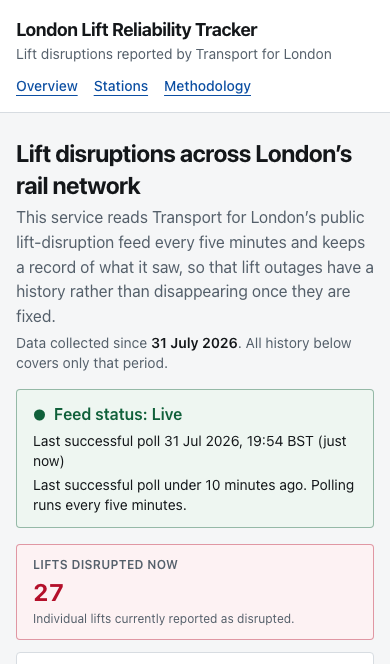
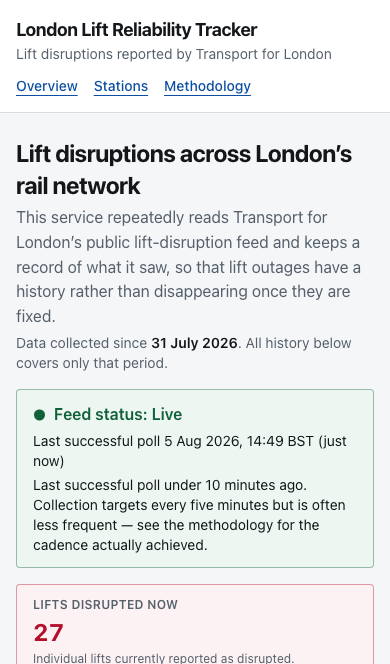
Bring the README and screenshots up to date with the deployed site
Every screenshot predated a week of changes: they still showed "Disrupted for
35m" on outages that began months earlier, four metric cards, and a station
table headed "Stations" with a Last-disruption column that printed the same
timestamp on every row. Recaptured from production.

The prose had drifted just as far. It now describes what the site actually
does: three polling triggers rather than one, and why; region pinning and the
26.8s-to-1.8s reason for it; durations taken from the start date in TfL's own
message, with a floor where none is given; the station lookup that answers for
stations no disruption has ever touched; the openly published 569-lift
inventory and the denominator it provides; and the deployment step for an
external cron, without which the schedule alone runs roughly hourly.

diff --git a/README.md b/README.md
@@ -4,11 +4,13 @@ Transport for London publishes which station lifts are broken **right now**, but
 lift is fixed, its entry disappears and the event is gone. So there is no public way to ask "how
 often does this lift fail, and for how long?"
 
-This service polls that feed repeatedly and keeps what it saw. From launch onward, lift
+This service polls that feed every few minutes and keeps what it saw. From launch onward, lift
 outages accumulate a record — visible on a map, in a list, and per station.
 
 **It reports lift outages and observed downtime. It does not claim a station is inaccessible**, and
 it never presents inferred data as fact.
+
+Live: <https://london-lift-tracker.vercel.app>
 
 ![Homepage: feed status, headline metrics, map and current outage list](docs/screenshots/homepage.png)
 
@@ -25,7 +27,8 @@ collection started, and restoration times are inferred rather than reported.
 | Observed outages since a stated date | Official repair durations |
 | Observed downtime by station | "This station is inaccessible" |
 | Restoration inferred from the feed | Reliability over the past year |
-| The cadence collection actually achieved, published on the site | "Collected every five minutes" — the schedule is throttled, so real gaps are longer |
+| The polling cadence actually achieved, published on the site | A fixed "every five minutes", which the schedule does not always deliver |
+| "TfL reports no disruption here" | "Every lift at this station works" |
 
 Station availability percentages are deliberately absent: they would need a verified inventory of
 every lift and an honest observation denominator.
@@ -47,9 +50,10 @@ Verified against `GET https://api.tfl.gov.uk/Disruptions/Lifts/v2` before any ad
 
 Three consequences shape everything else:
 
-1. **No timestamps.** An outage's start is when *we first saw it* — an upper bound on the real
-   failure time. Outages already running at collection start are labelled as such, and their
-   durations are lower bounds.
+1. **No timestamps.** The structured feed carries no start time, so an outage's start is when *we
+   first saw it*. Where TfL states a date in its own prose ("From Monday 10 March"), that is parsed
+   and used instead, because it is better evidence than our arrival time. Where it does not, and
+   the outage predates collection, the duration is shown as a floor: `≥ 4d 16h`.
 2. **One record can list several lifts.** Bank has listed four at once. Each lift is a separate
    physical asset with its own history, so a record is fanned out into one outage per lift.
 3. **No names or coordinates.** Those come from TfL's StopPoint API, looked up once per station and
@@ -58,25 +62,42 @@ Three consequences shape everything else:
 The feed covers Underground, Overground, Elizabeth line, DLR and rail interchanges — not just the
 Tube.
 
+### Why the live list looks so long-running
+
+A snapshot of what is broken *now* is inherently weighted towards slow repairs: a lift fixed within
+the hour leaves the feed almost immediately, while one waiting on parts sits there for weeks. TfL's
+own current messages quote end dates months away. This surprises people into thinking the data is
+wrong, so the site explains it rather than leaving it to be inferred.
+
 ---
 
 ## Architecture
 
 ```
-GitHub Actions (cron)  +  any page view with stale data
+external cron (every 5 min)  +  GitHub Actions (cron)  +  any page view with stale data
   └─> POST /api/internal/poll-lifts        Authorization: Bearer CRON_SECRET
         └─> lib/tfl/poll.ts  runPoll()
               1. fetch feed + validate           network, 15s timeout, ≤2 retries
-              2. normalise, fan out per lift     pure
-              3. resolve unknown stations        network, StopPoint, DB-cached
-              4. ONE transaction                 advisory lock → upserts → state machine
+              2. normalise, fan out per lift      pure
+              3. resolve unknown stations         network, StopPoint, DB-cached
+              4. ONE transaction                  advisory lock → upserts → state machine
 ```
+
+**Three triggers, because one is not reliable.** GitHub's scheduler throttles frequent workflows
+hard — measured in production, a five-minute cron was delivering a median gap of 62 minutes and a
+worst gap of 216. An external cron service is therefore the workhorse, GitHub Actions is a free
+backstop, and a page view tops the data up when the newest successful poll is over four minutes
+old. Overlapping triggers are safe: the advisory lock means the loser writes nothing and gets a 409.
 
 Network calls happen **before** the transaction opens. The spec this was built from puts the fetch
 inside it; holding a Postgres transaction across a 15-second network timeout starves the connection
 pool and will eventually deadlock a hosted pooler. Every guarantee is preserved: writes are atomic,
 only one poll runs at a time, a concurrent caller gets HTTP 409, and a failed fetch is recorded as a
 `FAILED` PollRun that closes nothing.
+
+Serverless functions are pinned to the same region as the database (`dub1`). They defaulted to
+US-East against an EU-West database, which put ~150 queries per poll across the Atlantic and took a
+poll from 1.8s to 26.8s — past the collector's timeout.
 
 Reads are plain Prisma queries in server components; `/api/*` exposes the same data as JSON.
 
@@ -101,9 +122,9 @@ Reads are plain Prisma queries in server components; `/api/*` exposes the same d
 
 ```
 app/            pages and API routes
-components/     UI (map, list, table, metric cards, feed health)
-lib/tfl/        client, Zod schema, normaliser, station resolver, poll state machine
-lib/metrics/    durations, medians, interval merging, station aggregates
+components/     UI (map, list, table, metric cards, feed health, station lookup)
+lib/tfl/        client, Zod schema, normaliser, station resolver, poll state machine, refresh
+lib/metrics/    durations, medians, interval merging, station aggregates, cadence
 lib/utils/      text normalisation, hashing, CSV
 prisma/         schema and migrations
 scripts/        inspect:tfl, poll:once, import:topology
@@ -114,8 +135,18 @@ tests/          unit + integration tests (real PostgreSQL)
 
 | | |
 | --- | --- |
-| **Stations** — ranked by observed downtime, sortable, with honest "insufficient data" where nothing has resolved yet<br>![Stations table](docs/screenshots/stations.png) | **Station detail** — current status, observed metrics and a chronological timeline<br>![Station detail page](docs/screenshots/station-detail.png) |
-| **Methodology** — what is measured, what is inferred, and what is not claimed<br>![Methodology page](docs/screenshots/methodology.png) | **Mobile** — list before map, no horizontal scrolling<br><img src="docs/screenshots/homepage-mobile.png" alt="Homepage on a phone" width="300"> |
+| **Stations** — every station where a disruption has been observed, ranked by downtime, sortable, with `≥` marking figures that are floors<br>![Stations table](docs/screenshots/stations.png) | **Station detail** — current status, observed metrics and a chronological timeline of every outage<br>![Station detail page](docs/screenshots/station-detail.png) |
+| **Methodology** — what is measured, what is inferred, what is not claimed, and the cadence actually achieved<br>![Methodology page](docs/screenshots/methodology.png) | **Mobile** — list before map, no horizontal scrolling<br><img src="docs/screenshots/homepage-mobile.png" alt="Homepage on a phone" width="300"> |
+
+### Searching a station that is fine
+
+Only stations that have *had* a disruption exist in the database, so searching a working station
+would otherwise return "no results" — which reads as "not found" rather than "nothing is wrong".
+`GET /api/lookup?q=…` checks our records first, then TfL's StopPoint search, so any London rail
+station resolves and reports its status as of the last successful poll.
+
+The answer is phrased as "TfL reports no lift disruption here", never "all lifts work": an
+unreported fault is still possible, and plenty of stations have no lifts at all.
 
 ---
 
@@ -138,8 +169,8 @@ npm run dev                         # http://localhost:3000
 ```
 
 A `TFL_APP_KEY` is optional: the feed answers anonymously at 50 requests/minute and polling needs
-about one. Register at <https://api-portal.tfl.gov.uk/> for the 500/minute plan and
-the client will use the key automatically.
+about one. Register at <https://api-portal.tfl.gov.uk/> for the 500/minute plan and the client will
+use the key automatically.
 
 The site shows nothing until at least one poll has run — by design. There are no seeded or mock
 records anywhere in this repository.
@@ -152,22 +183,28 @@ records anywhere in this repository.
 | `npm run build` / `npm start` | Production build and serve |
 | `npm run inspect:tfl` | Print the live payload's real shape; save `fixtures/tfl-lift-disruptions.json`. No DB writes |
 | `npm run poll:once` | Run one collection cycle locally |
-| `npm run import:topology -- --file=/abs/path.zip` | Optional lift-inventory enrichment |
+| `npm run import:topology -- --download` | Fetch and import TfL's lift inventory |
 | `npm run lint` / `npm run typecheck` / `npm test` | Verification |
 
 ### Optional topology import
 
-TfL's static step-free topology extract adds real lift names and the areas each lift connects:
+TfL publishes its step-free topology openly, with no key required, at
+`api.tfl.gov.uk/stationdata/tfl-stationdata-detailed.zip` — **569 lifts across 509 stations**, plus
+platforms, ramps and same-level paths.
 
 ```bash
-npm run import:topology -- --file=/absolute/path/to/topology.zip
+npm run import:topology -- --download                     # enrich stations we already track
+npm run import:topology -- --download --create-stations   # import the whole inventory
+npm run import:topology -- --file=/absolute/path.zip      # use a local archive instead
 ```
 
 It prints every CSV and its headers, imports `Lifts.csv`, upserts rather than duplicates, keeps all
 source columns in `rawMetadata`, and deletes its temporary directory afterwards. By default it only
 enriches stations already known from the feed, so a bulk import cannot flood the rankings with
-stations that have never had an observed outage; pass `--create-stations` to import the full
-inventory. **The app runs perfectly well without this.**
+stations that have never had an observed outage.
+
+That 569-lift figure is the denominator the site otherwise lacks — the difference between "27 lifts
+disrupted" and "27 of 569". **The app runs perfectly well without this.**
 
 ---
 
@@ -177,9 +214,9 @@ inventory. **The app runs perfectly well without this.**
 npm test
 ```
 
-Integration tests run against a **real** PostgreSQL (`TEST_DATABASE_URL`), because the parts most
-worth testing — the advisory lock, the partial unique index, transaction rollback — do not exist in
-a mock. Migrations are applied automatically; tables are truncated between cases.
+141 tests. Integration tests run against a **real** PostgreSQL (`TEST_DATABASE_URL`), because the
+parts most worth testing — the advisory lock, the partial unique index, transaction rollback — do
+not exist in a mock. Migrations are applied automatically; tables are truncated between cases.
 
 The state-machine suite covers the sequences that protect against a false "repaired" claim: an
 outage appearing, re-appearing without duplicating, surviving a reworded message, staying open after
@@ -187,34 +224,40 @@ one miss, resolving after two, **not** resolving when a request fails between mi
 new outage after a relapse, closing everything after two empty feeds, refusing to close on a partial
 poll, and rejecting a second concurrent poll via the advisory lock.
 
+Date parsing out of TfL's prose is tested hard in both directions, since a bad parse would put a
+confidently wrong duration on the page: it must read "from Monday 10 March", must ignore an "until"
+clause, and must reject impossible dates.
+
 ---
 
 ## Deployment
 
 Any Postgres and any Node host will do; these steps assume Supabase + Vercel.
 
-1. **Database** — create a Supabase (or Neon/RDS) project and copy its connection string.
-2. **Migrate** — with `DATABASE_URL` set to the **direct** (non-pooled) URI:
+1. **Database** — create a Supabase (or Neon/RDS) project and copy its connection strings. Use the
+   **session pooler** for migrations and the **transaction pooler** for the app.
+2. **Migrate** — with `DATABASE_URL` set to the session-pooler URI:
    ```bash
    npx prisma migrate deploy
    ```
-3. **Deploy** the app to Vercel. Set environment variables:
-   - `DATABASE_URL` — the **pooled** connection URI
+3. **Deploy** to Vercel. Set environment variables:
+   - `DATABASE_URL` — the transaction-pooler URI plus `?pgbouncer=true&connection_limit=1`
    - `CRON_SECRET` — `openssl rand -hex 32`
    - `NEXT_PUBLIC_APP_URL` — e.g. `https://your-app.vercel.app`
    - `TFL_APP_KEY` — optional
-4. **Schedule polling** — add repository secrets `APP_URL` (no trailing slash) and `CRON_SECRET`
-   (identical to the app's), then run the **Poll TfL lift disruptions** workflow via
-   *workflow_dispatch*.
-5. **Verify**, in order:
+4. **Pin the region** to match the database. `vercel.json` sets `dub1` for an EU-West database;
+   change it if yours lives elsewhere. This is not cosmetic — see Architecture.
+5. **Schedule polling.** Add repository secrets `APP_URL` (no trailing slash) and `CRON_SECRET`,
+   then run the **Poll TfL lift disruptions** workflow via *workflow_dispatch*. Because GitHub
+   throttles frequent schedules, also point a free external cron (cron-job.org, a Cloudflare Worker
+   cron trigger, or any uptime monitor) at `/api/internal/poll-lifts` every five minutes with the
+   `Authorization: Bearer <CRON_SECRET>` header. Both GET and POST are accepted.
+6. **Verify**, in order:
    - `GET /api/health` reports a `lastSuccessfulPoll`
    - the homepage lists current outages on the map **and** in the list
-   - after the next scheduled run, a second observation exists for an ongoing outage
+   - a second observation exists for an ongoing outage after the next poll
    - an invalid bearer token returns **401**
-   - pausing the workflow degrades the banner: Live → Delayed (10 min) → Stale (20 min)
-
-Scheduled GitHub Actions can be delayed or dropped under load, which is precisely why the app
-displays feed freshness with a timestamp instead of assuming it is current.
+   - pausing collection degrades the banner: Live → Delayed (10 min) → Stale (20 min)
 
 ---
 
@@ -223,13 +266,17 @@ displays feed freshness with a timestamp instead of assuming it is current.
 The full, public version is at `/methodology`. In short:
 
 - Everything is stored in UTC and displayed in `Europe/London` (with BST/GMT shown explicitly).
-- Outage start = first observation. It is an upper bound on the true failure time.
+- Outage start = the date TfL states in its message where it gives one, otherwise our first
+  observation, which is an upper bound on the true failure time.
+- Outages already running when collection began are shown as floors (`≥`), never as measurements.
 - Outage end = inferred from two consecutive successful polls without it, dated to the first miss.
 - **Observed downtime** sums each lift separately: two lifts out for an hour is two lift-hours.
   Where wall-clock time is more useful, it is labelled "time with at least one lift disrupted" and
   overlapping intervals are merged first.
 - Medians and longest durations use **resolved** outages only; where none have completed, the UI
   says "insufficient data" rather than `0`.
+- The polling cadence actually achieved over the last 24 hours is published, because gap length is
+  the resolution limit of every other number on the site.
 - Raw payloads are stored for every first and latest sighting, so a future parsing fix can be
   replayed over history already collected.
 
